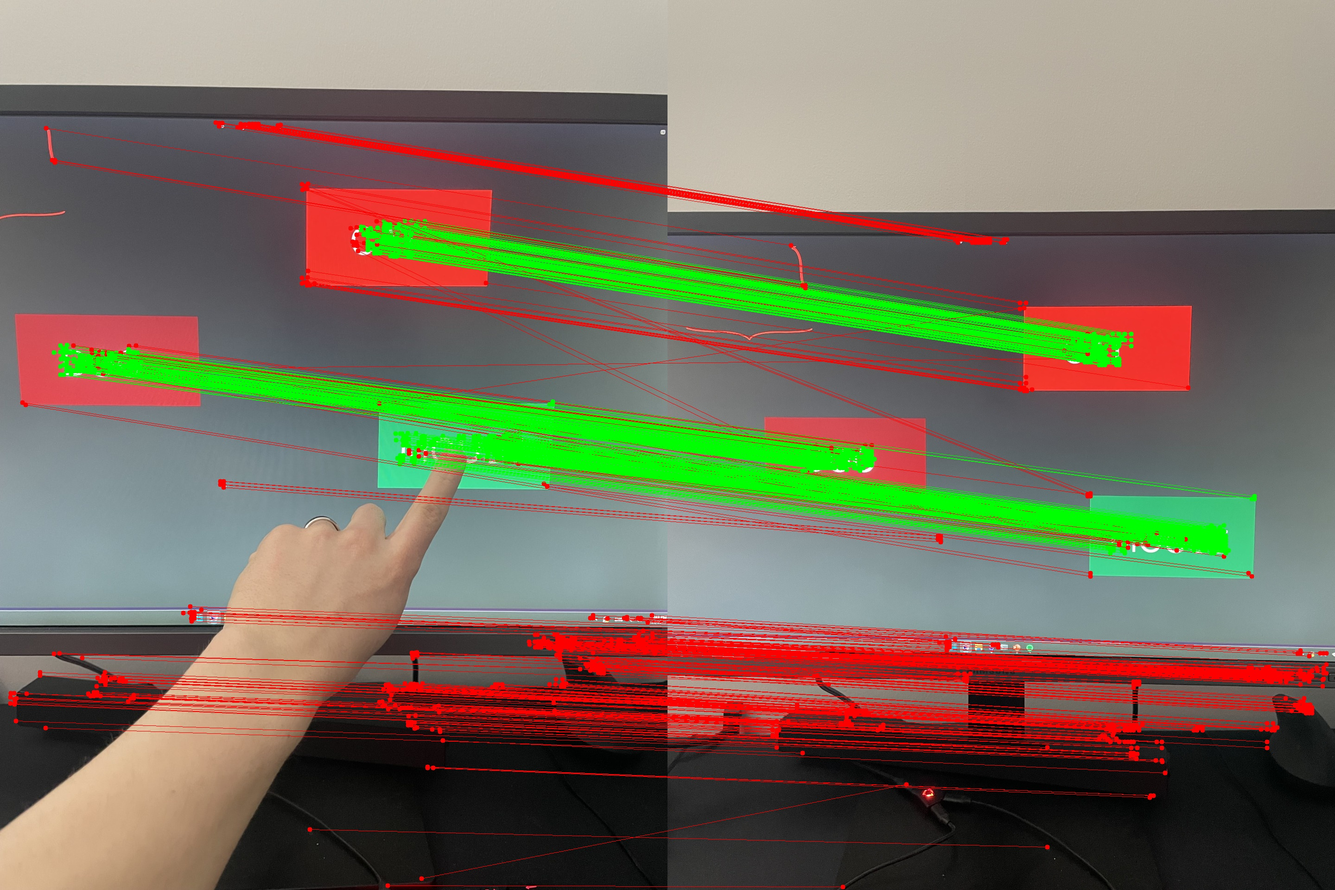
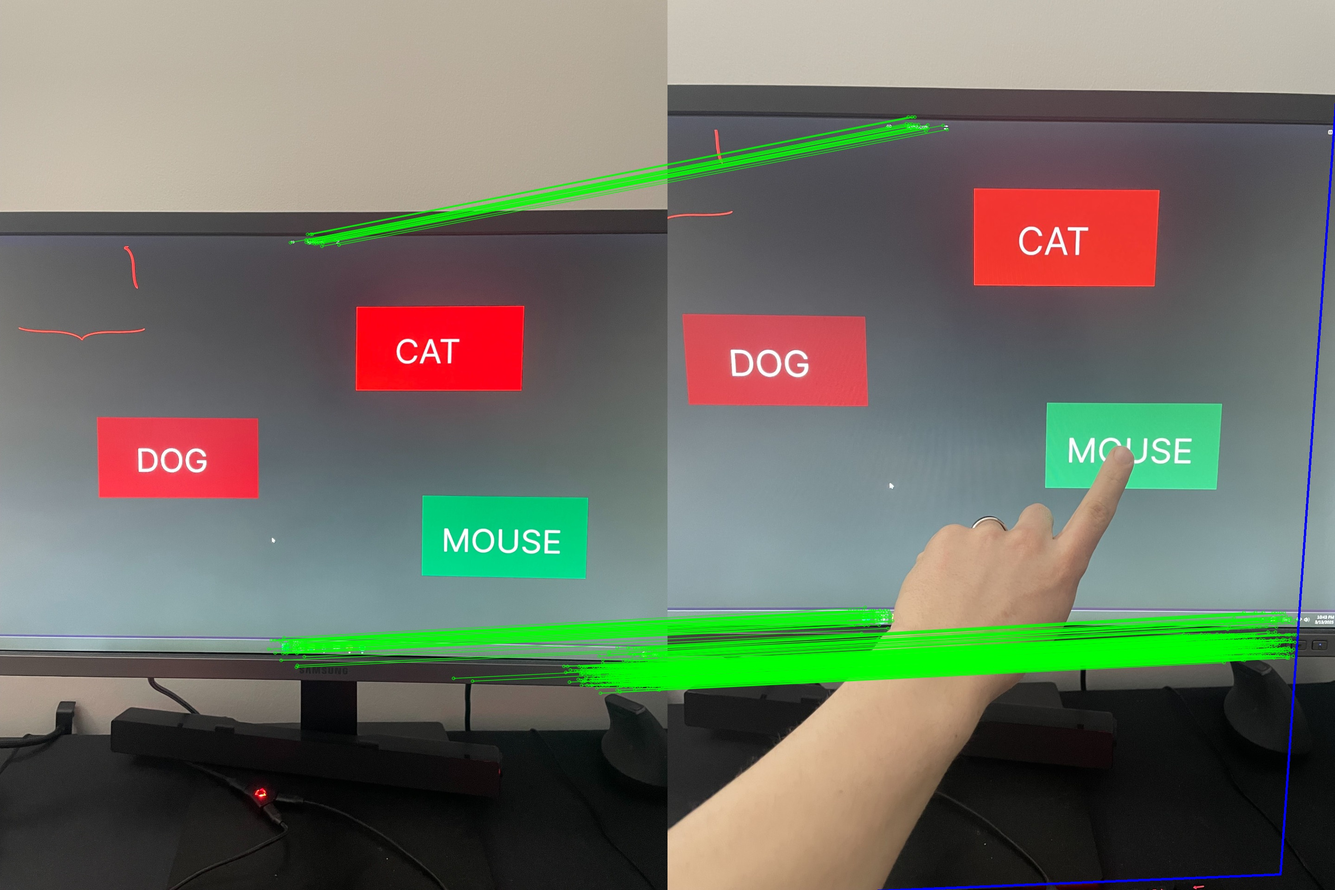
Temp

diff --git a/frontend/src/js/watvision.js b/frontend/src/js/watvision.js
@@ -6,10 +6,6 @@ import {
 } from "@mediapipe/tasks-vision";
 import { HAND_CONNECTIONS } from "@mediapipe/hands";
 
-
-import { pipeline } from '@huggingface/transformers';
-
-
 class WatVision {
 
     constructor() {
@@ -164,7 +160,7 @@ class WatVision {
     }
 
     async getImageBlob(inputElement) {
-         let imgBlob;
+        let imgBlob;
 
         if (inputElement instanceof HTMLImageElement) {
             // Handle <img> element
@@ -197,7 +193,7 @@ class WatVision {
         let returnString = response.data;
         // Convert from string to JSON data
         let jsonData = JSON.parse(returnString.data);
-        return cv.matFromArray(3,3, cv.CV_32F, jsonData.flat());
+        return cv.matFromArray(3, 3, cv.CV_32F, jsonData.flat());
 
         let img1, img2;
 

diff --git a/backend/vision_manager.py b/backend/vision_manager.py
@@ -14,6 +14,41 @@ from PIL import Image
 import io
 
 from modules.xfeat import XFeat
+import matplotlib.pyplot as plt
+
+from vision_instance import VisionInstance
+
+def warp_corners_and_draw_matches(ref_points, dst_points, img1, img2):
+    # Calculate the Homography matrix
+    H, mask = cv2.findHomography(ref_points, dst_points, cv2.USAC_MAGSAC, 3.5, maxIters=1_000, confidence=0.999)
+    mask = mask.flatten()
+
+    print('inlier ratio: ', np.sum(mask)/len(mask))
+
+    # Get corners of the first image (image1)
+    h, w = img1.shape[:2]
+    corners_img1 = np.array([[0, 0], [w-1, 0], [w-1, h-1], [0, h-1]], dtype=np.float32).reshape(-1, 1, 2)
+
+    # Warp corners to the second image (image2) space
+    warped_corners = cv2.perspectiveTransform(corners_img1, H)
+
+    # Draw the warped corners in image2
+    img2_with_corners = img2.copy()
+    for i in range(len(warped_corners)):
+        start_point = tuple(warped_corners[i-1][0].astype(int))
+        end_point = tuple(warped_corners[i][0].astype(int))
+        cv2.line(img2_with_corners, start_point, end_point, (255, 0, 0), 4)  # Using solid green for corners
+
+    # Prepare keypoints and matches for drawMatches function
+    keypoints1 = [cv2.KeyPoint(p[0], p[1], 5) for p in ref_points]
+    keypoints2 = [cv2.KeyPoint(p[0], p[1], 5) for p in dst_points]
+    matches = [cv2.DMatch(i,i,0) for i in range(len(mask)) if mask[i]]
+
+    # Draw inlier matches
+    img_matches = cv2.drawMatches(img1, keypoints1, img2_with_corners, keypoints2, matches, None,
+                                  matchColor=(0, 255, 0), flags=2)
+
+    return (img_matches, H)
 
 class VisionManager:
     def __init__(self, app):
@@ -27,11 +62,33 @@ class VisionManager:
             self.azure_vision_endpoint, CognitiveServicesCredentials(self.azure_vision_key)
         )
 
-        data_path = os.path.join(os.path.dirname(__file__), 'test_data_video.json')
+        data_path = os.path.join(os.path.dirname(__file__), 'test_data_screen.json')
         with open(data_path, 'r') as file:
             self.test_data = json.load(file)
 
-        self.xfeat = XFeat()
+        self.xfeat = torch.hub.load('verlab/accelerated_features', 'XFeat', pretrained = True, top_k = 4096)
+
+        self.visionInstanceList = [ VisionInstance() ]
+
+    def __get_cv_image_from_input(self, input_image):
+        input_path = os.path.join(os.getcwd(), 'source_image.jpg')
+        input_image.save(input_path)
+
+        input_image = cv2.imread(input_path)
+        if input_image is None:
+            raise ValueError("Source image could not be loaded")
+        
+        return input_image
+
+    def set_source_image(self, source_image):
+        # Save the source image to a temporary location
+
+        # Set the source image in the VisionInstance
+        self.visionInstanceList[0].set_source_image(source_image)
+    
+    def step(self, input_image):
+
+        input_image = self.__get_cv_image_from_input(input_image)
 
     def get_text_info(self, input_image):
         # Input is expected to be a file-like object with 'mimetype' and 'buffer' attributes
@@ -61,57 +118,20 @@ class VisionManager:
 
         if input_image is None or source_image is None:
             return json.dumps([])
+
+        output0 = self.xfeat.detectAndCompute(source_image, top_k = 4096)[0]
+        output1 = self.xfeat.detectAndCompute(input_image, top_k = 4096)[0]
+
+        output0.update({'image_size': (source_image.shape[1], source_image.shape[0])})
+        output1.update({'image_size': (input_image.shape[1], input_image.shape[0])})
         
-        # Ensure both images have the same resolution
-        if input_image.shape[:2] != source_image.shape[:2]:
-            source_image = cv2.resize(source_image, (input_image.shape[1], input_image.shape[0]))
-        
-        # Reshape input image and source image to a batch of 1
-        input_image_batch = np.expand_dims(input_image, axis=0)
-        source_image_batch = np.expand_dims(source_image, axis=0)
+        mkpts_0, mkpts_1, other = self.xfeat.match_lighterglue(output0, output1)
 
-        # Detect keypoints and descriptors using XFeat
-        matches_list = self.xfeat.match_xfeat_star(input_image_batch, source_image_batch)
-
-        input_matches_list = matches_list[0]
-        source_matches_list = matches_list[1]
-
-        # Calculate homography
-        homography, mask = cv2.findHomography(source_matches_list, input_matches_list, cv2.RANSAC, 5)
-
-        good_matches = np.sum(mask)
-        print(f"Percent good matches: {good_matches / len(mask) * 100:.2f}% - {good_matches} / {len(mask)}")
-
-        # Concatenate the two images side by side
-        concatenated_image = cv2.hconcat([input_image, source_image])
-
-        # Draw matches on the concatenated image with a gradient from green to red
-        num_matches = len(input_matches_list)
-        for i, (input_point, source_point) in enumerate(zip(input_matches_list, source_matches_list)):
-            input_x, input_y = int(input_point[0]), int(input_point[1])
-            source_x, source_y = int(source_point[0] + input_image.shape[1]), int(source_point[1])  # Offset x-coordinate for the source image
-            
-            if mask[i] == 0:
-                # Calculate gradient color (green to red)
-                r = 255
-                g = 0
-                b = 0  # No blue component
-                color = (b, g, r)
-            if mask[i] == 1:
-                # Calculate gradient color (blue to purple)
-                r = 0
-                g = 255
-                b = 0
-                color = (b, g, r)
-            
-            # Draw circles and lines with the gradient color
-            cv2.circle(concatenated_image, (input_x, input_y), 5, color, -1)
-            cv2.circle(concatenated_image, (source_x, source_y), 5, color, -1)
-            cv2.line(concatenated_image, (input_x, input_y), (source_x, source_y), color, 1)
+        canvas, homography = warp_corners_and_draw_matches(mkpts_0, mkpts_1, source_image, input_image)
 
         # Save the concatenated image with matches
         concatenated_image_path = os.path.join(os.getcwd(), 'concatenated_image_with_matches.jpg')
-        cv2.imwrite(concatenated_image_path, concatenated_image)
+        cv2.imwrite(concatenated_image_path, canvas)
 
         # Convert homography matrix to a np array
         homography = np.array(homography).tolist()

diff --git a/backend/app.py b/backend/app.py
@@ -64,6 +64,31 @@ def get_homography():
     source_file.save(source_path)
     return try_catch_result(lambda: vision_manager.get_homography(input_path, source_path))
 
+@app.route('/api/set_source_image/', methods=['POST'])
+def set_source_image():
+    if 'source' not in request.files:
+        return jsonify(success=False, error="No file part")
+    
+    file = request.files['source']
+    if file.filename == '':
+        return jsonify(success=False, error="No selected file")
+    
+    # Save the source image to a temporary location
+    source_path = os.path.join(app.config['UPLOAD_FOLDER'], file.filename)
+    file.save(source_path)
+    
+    # Set the source image in the VisionManager
+    vision_manager.visionInstanceList[0].set_source_image(source_path)
+    
+    return try_catch_result(lambda: vision_manager.set_source_image(request.files['image']))
+
+@app.route('/api/step/', methods=['POST'])
+def step():
+    if 'image' not in request.files:
+        return jsonify(success=False, error="No file part")
+    
+    return try_catch_result(lambda: vision_manager.step(request.files['image']))
+
 @app.route('/api/')
 def api():
     return jsonify(success=True, message="API is working!")

diff --git a/test.py b/test.py
@@ -6,9 +6,6 @@ import tqdm
 import cv2
 import matplotlib.pyplot as plt
 
-import cv2
-import numpy as np
-
 def warp_corners_and_draw_matches(ref_points, dst_points, img1, img2):
     # Calculate the Homography matrix
     H, mask = cv2.findHomography(ref_points, dst_points, cv2.USAC_MAGSAC, 3.5, maxIters=1_000, confidence=0.999)

diff --git a/backend/vision_instance.py b/backend/vision_instance.py
@@ -1,0 +1,9 @@
+
+class VisionInstance:
+
+    def __init__(self):
+        self.source_image = None
+        self.input_image = None
+
+    def set_source_image(self, source_image):
+        self.source_image = source_image
